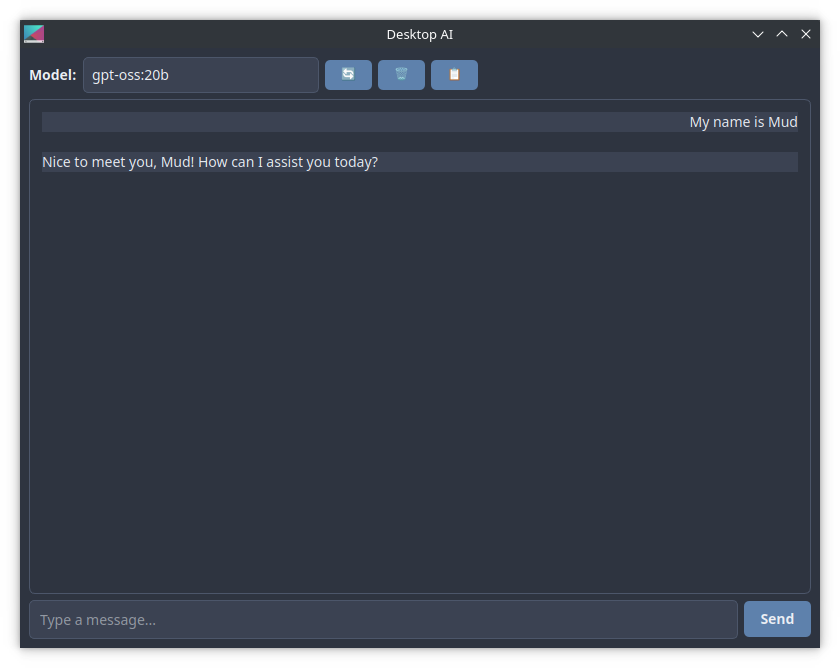
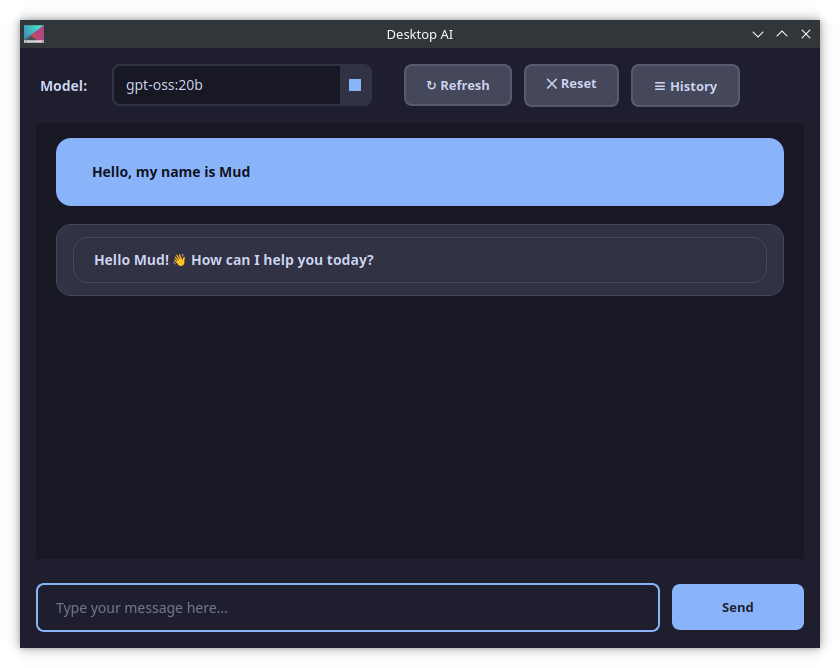
Improves chat bubble layout and markdown rendering
Refines chat UI by adjusting bubble alignment and expanding their width relative to spacers for better visual balance. Enhances markdown support for assistant messages with improved code block, heading, and emphasis styling, and adds table rendering. Updates screenshot to reflect these UI improvements.

diff --git a/desktop_ai/ui/widgets/chat_widget.py b/desktop_ai/ui/widgets/chat_widget.py
@@ -27,7 +27,8 @@ class MessageBubble(QFrame):
         
         if self.is_user:
             # User message: add spacer first, then bubble (align right)
-            container_layout.addItem(QSpacerItem(80, 0, QSizePolicy.Policy.Expanding, QSizePolicy.Policy.Minimum))
+            # Spacer takes 30% of space, bubble takes the rest
+            container_layout.addItem(QSpacerItem(0, 0, QSizePolicy.Policy.Expanding, QSizePolicy.Policy.Minimum))
             
             # Create the bubble frame
             bubble_frame = QFrame()
@@ -37,13 +38,8 @@ class MessageBubble(QFrame):
                     color: #11111b;
                     border-radius: 15px;
                     padding: 12px 16px;
-                    max-width: 400px;
                 }
             """)
-            
-            # Bubble layout
-            bubble_layout = QHBoxLayout(bubble_frame)
-            bubble_layout.setContentsMargins(0, 0, 0, 0)
             
             # Create the message label
             message_label = QLabel(text)
@@ -57,8 +53,12 @@ class MessageBubble(QFrame):
             font.setWeight(QFont.Weight.Medium)
             message_label.setFont(font)
             
+            # Simple layout for the bubble
+            bubble_layout = QVBoxLayout(bubble_frame)
+            bubble_layout.setContentsMargins(0, 0, 0, 0)
             bubble_layout.addWidget(message_label)
-            container_layout.addWidget(bubble_frame)
+            
+            container_layout.addWidget(bubble_frame, 2)  # Takes 2/3 of remaining space
             
         else:
             # Assistant message: bubble first, then spacer (align left)
@@ -72,13 +72,8 @@ class MessageBubble(QFrame):
                     border-radius: 15px;
                     border: 1px solid #45475a;
                     padding: 12px 16px;
-                    max-width: 400px;
                 }
             """)
-            
-            # Bubble layout
-            bubble_layout = QHBoxLayout(bubble_frame)
-            bubble_layout.setContentsMargins(0, 0, 0, 0)
             
             # Create the message label
             message_label = QLabel()
@@ -87,26 +82,43 @@ class MessageBubble(QFrame):
             message_label.setStyleSheet("background: transparent; color: #cdd6f4; font-size: 14px;")
             message_label.setAlignment(Qt.AlignmentFlag.AlignLeft)
             
+            # Enable HTML rendering for markdown
+            message_label.setTextFormat(Qt.TextFormat.RichText)
+            
             # Set font
             font = QFont("Segoe UI", 10)
             message_label.setFont(font)
             
             # Process markdown for assistant messages
             if any(marker in text for marker in ['```', '**', '*', '#', '`']):
-                html_content = markdown2.markdown(text, extras=["fenced-code-blocks"])
-                # Simple styling for code blocks
+                html_content = markdown2.markdown(text, extras=["fenced-code-blocks", "tables"])
+                # Enhanced styling for code blocks
                 html_content = html_content.replace(
-                    '<pre>', '<pre style="background-color: #11111b; padding: 8px; border-radius: 6px; margin: 4px 0; color: #cdd6f4; font-family: monospace;">'
+                    '<pre>', '<pre style="background-color: #11111b; padding: 12px; border-radius: 8px; margin: 8px 0; color: #cdd6f4; font-family: \'JetBrains Mono\', Consolas, monospace; font-size: 13px; line-height: 1.4; border: 1px solid #45475a;">'
                 ).replace(
-                    '<code>', '<code style="background-color: #45475a; padding: 2px 4px; border-radius: 3px; color: #fab387; font-family: monospace;">'
+                    '<code>', '<code style="background-color: #45475a; padding: 3px 6px; border-radius: 4px; color: #fab387; font-family: \'JetBrains Mono\', Consolas, monospace; font-size: 13px;">'
+                ).replace(
+                    '<h1>', '<h1 style="color: #cdd6f4; font-size: 18px; font-weight: bold; margin: 12px 0 8px 0;">'
+                ).replace(
+                    '<h2>', '<h2 style="color: #cdd6f4; font-size: 16px; font-weight: bold; margin: 10px 0 6px 0;">'
+                ).replace(
+                    '<h3>', '<h3 style="color: #cdd6f4; font-size: 14px; font-weight: bold; margin: 8px 0 4px 0;">'
+                ).replace(
+                    '<strong>', '<strong style="color: #fab387; font-weight: bold;">'
+                ).replace(
+                    '<em>', '<em style="color: #a6e3a1; font-style: italic;">'
                 )
                 message_label.setText(html_content)
             else:
                 message_label.setText(text)
             
+            # Simple layout for the bubble
+            bubble_layout = QVBoxLayout(bubble_frame)
+            bubble_layout.setContentsMargins(0, 0, 0, 0)
             bubble_layout.addWidget(message_label)
-            container_layout.addWidget(bubble_frame)
-            container_layout.addItem(QSpacerItem(80, 0, QSizePolicy.Policy.Expanding, QSizePolicy.Policy.Minimum))
+            
+            container_layout.addWidget(bubble_frame, 2)  # Takes 2/3 of space
+            container_layout.addItem(QSpacerItem(0, 0, QSizePolicy.Policy.Expanding, QSizePolicy.Policy.Minimum))
 
 
 class ChatWidget(QScrollArea):
